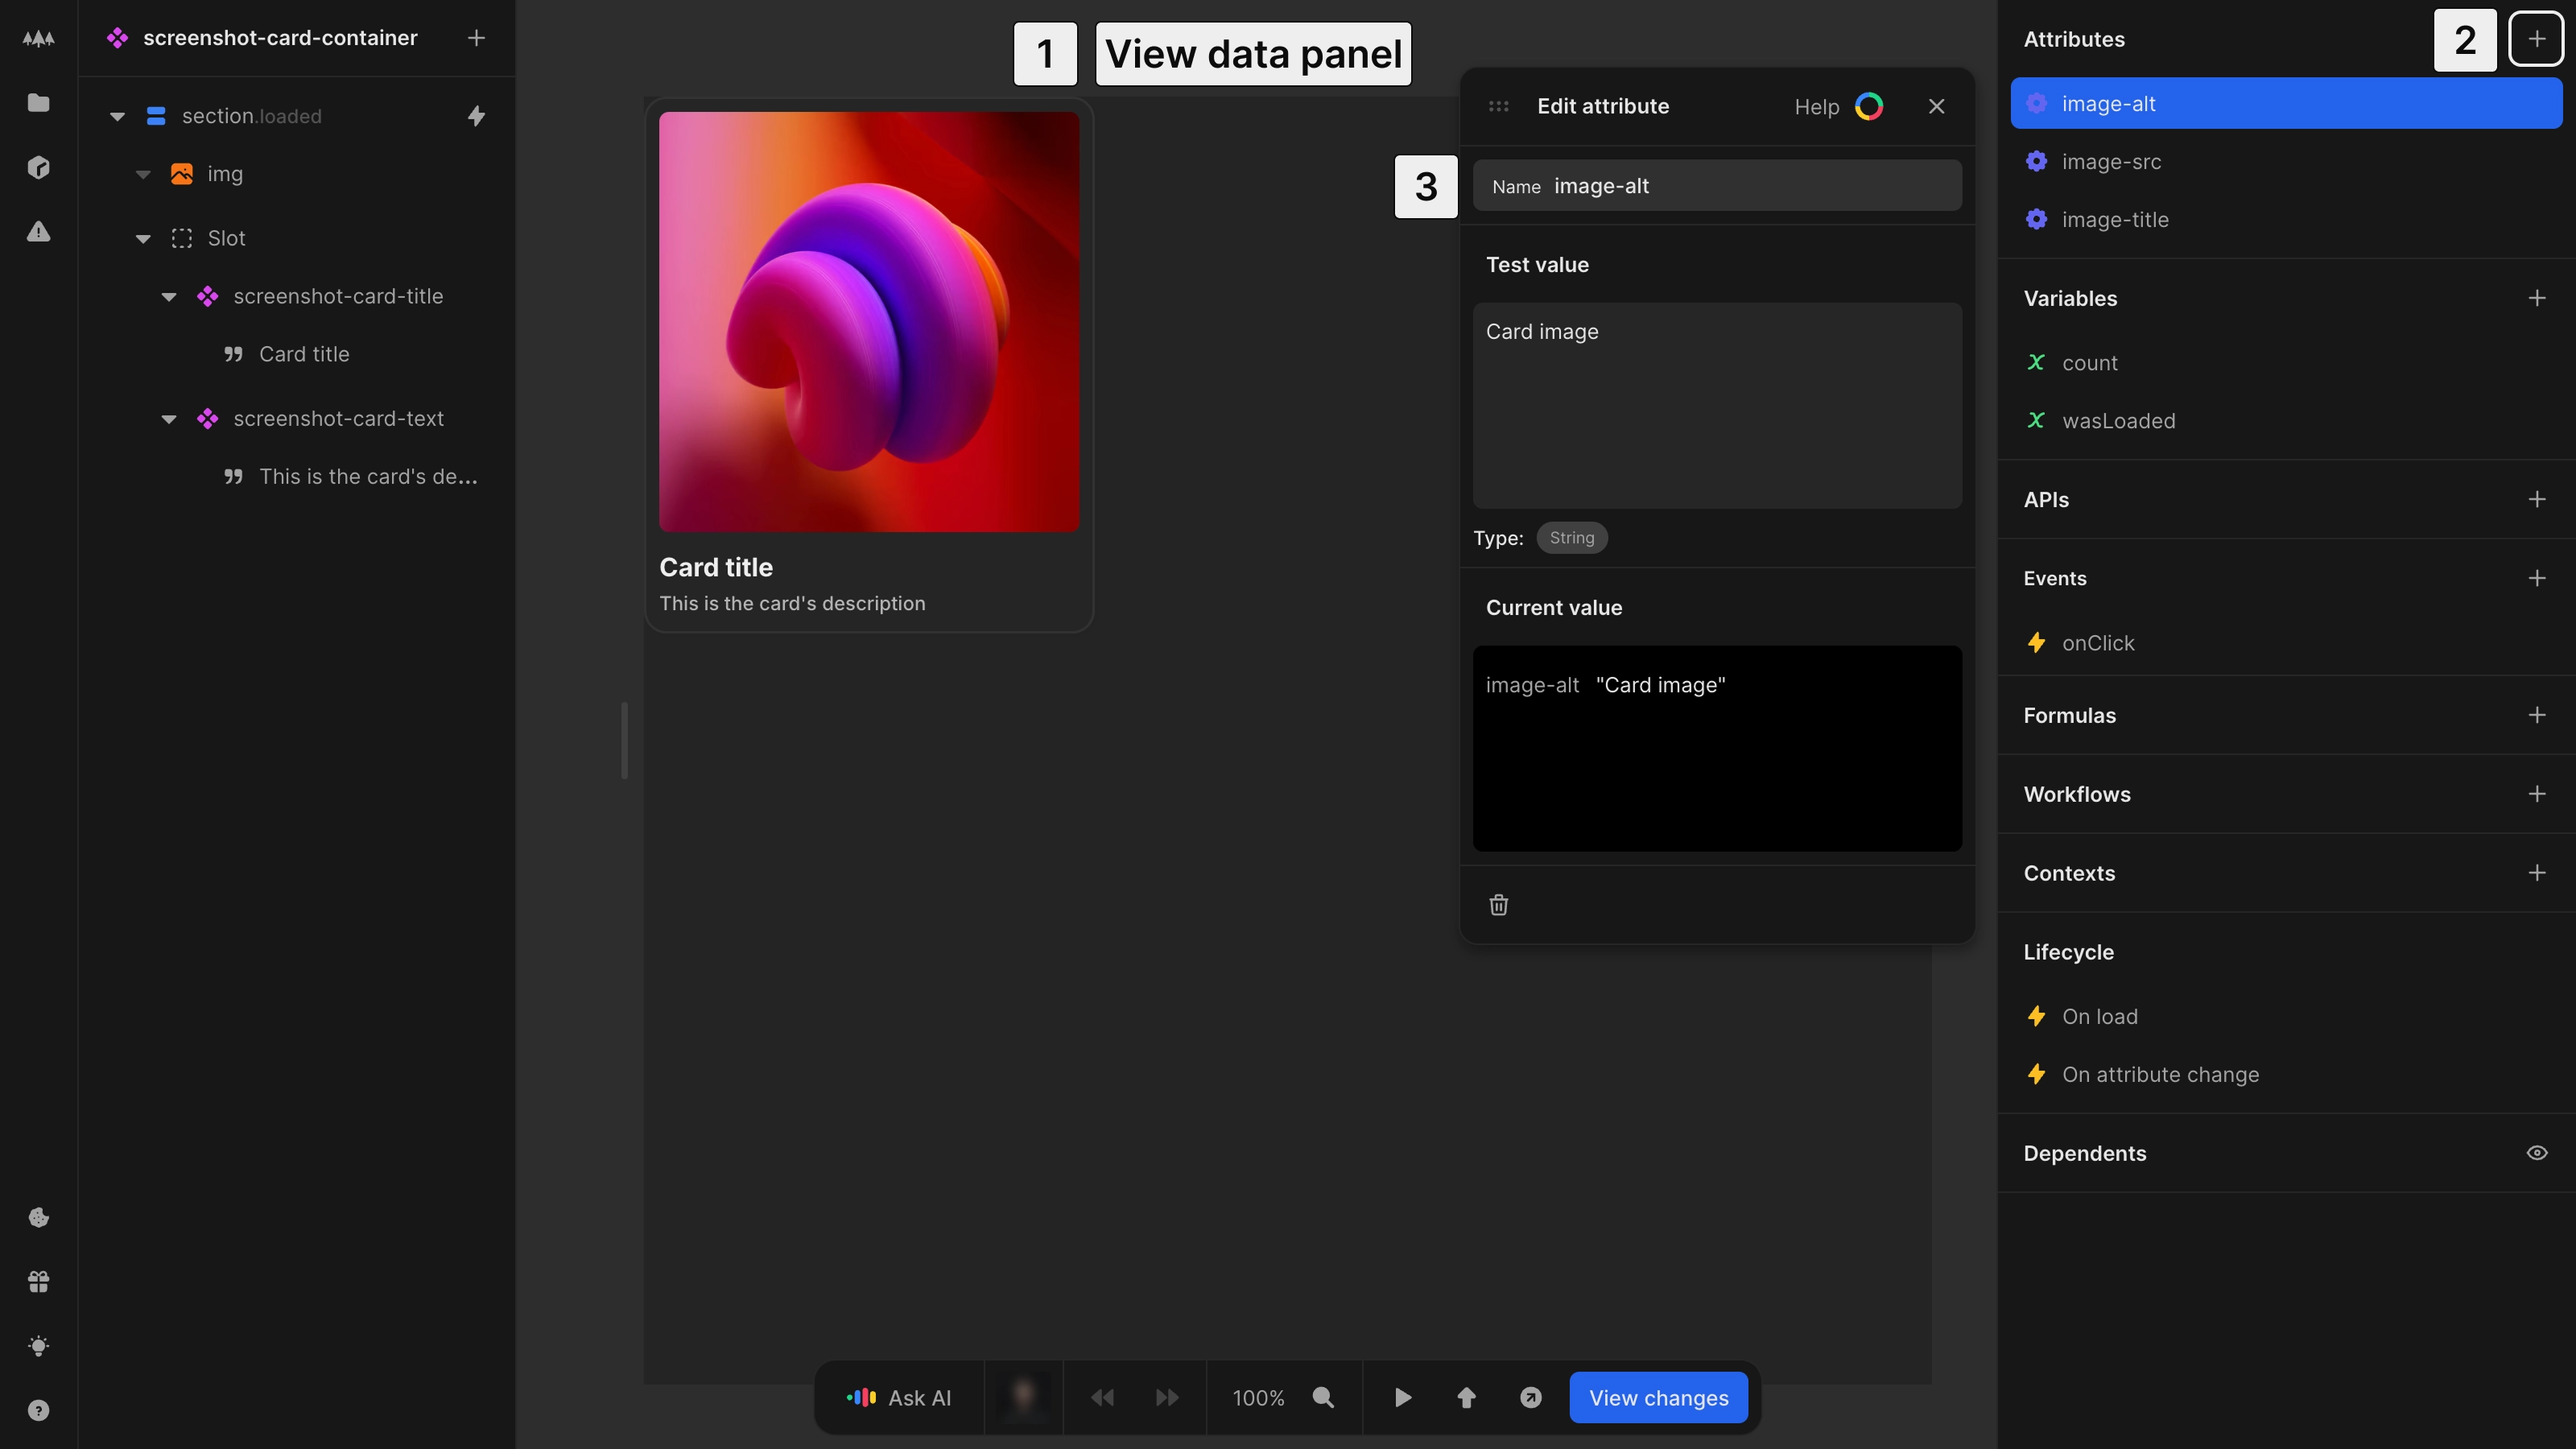
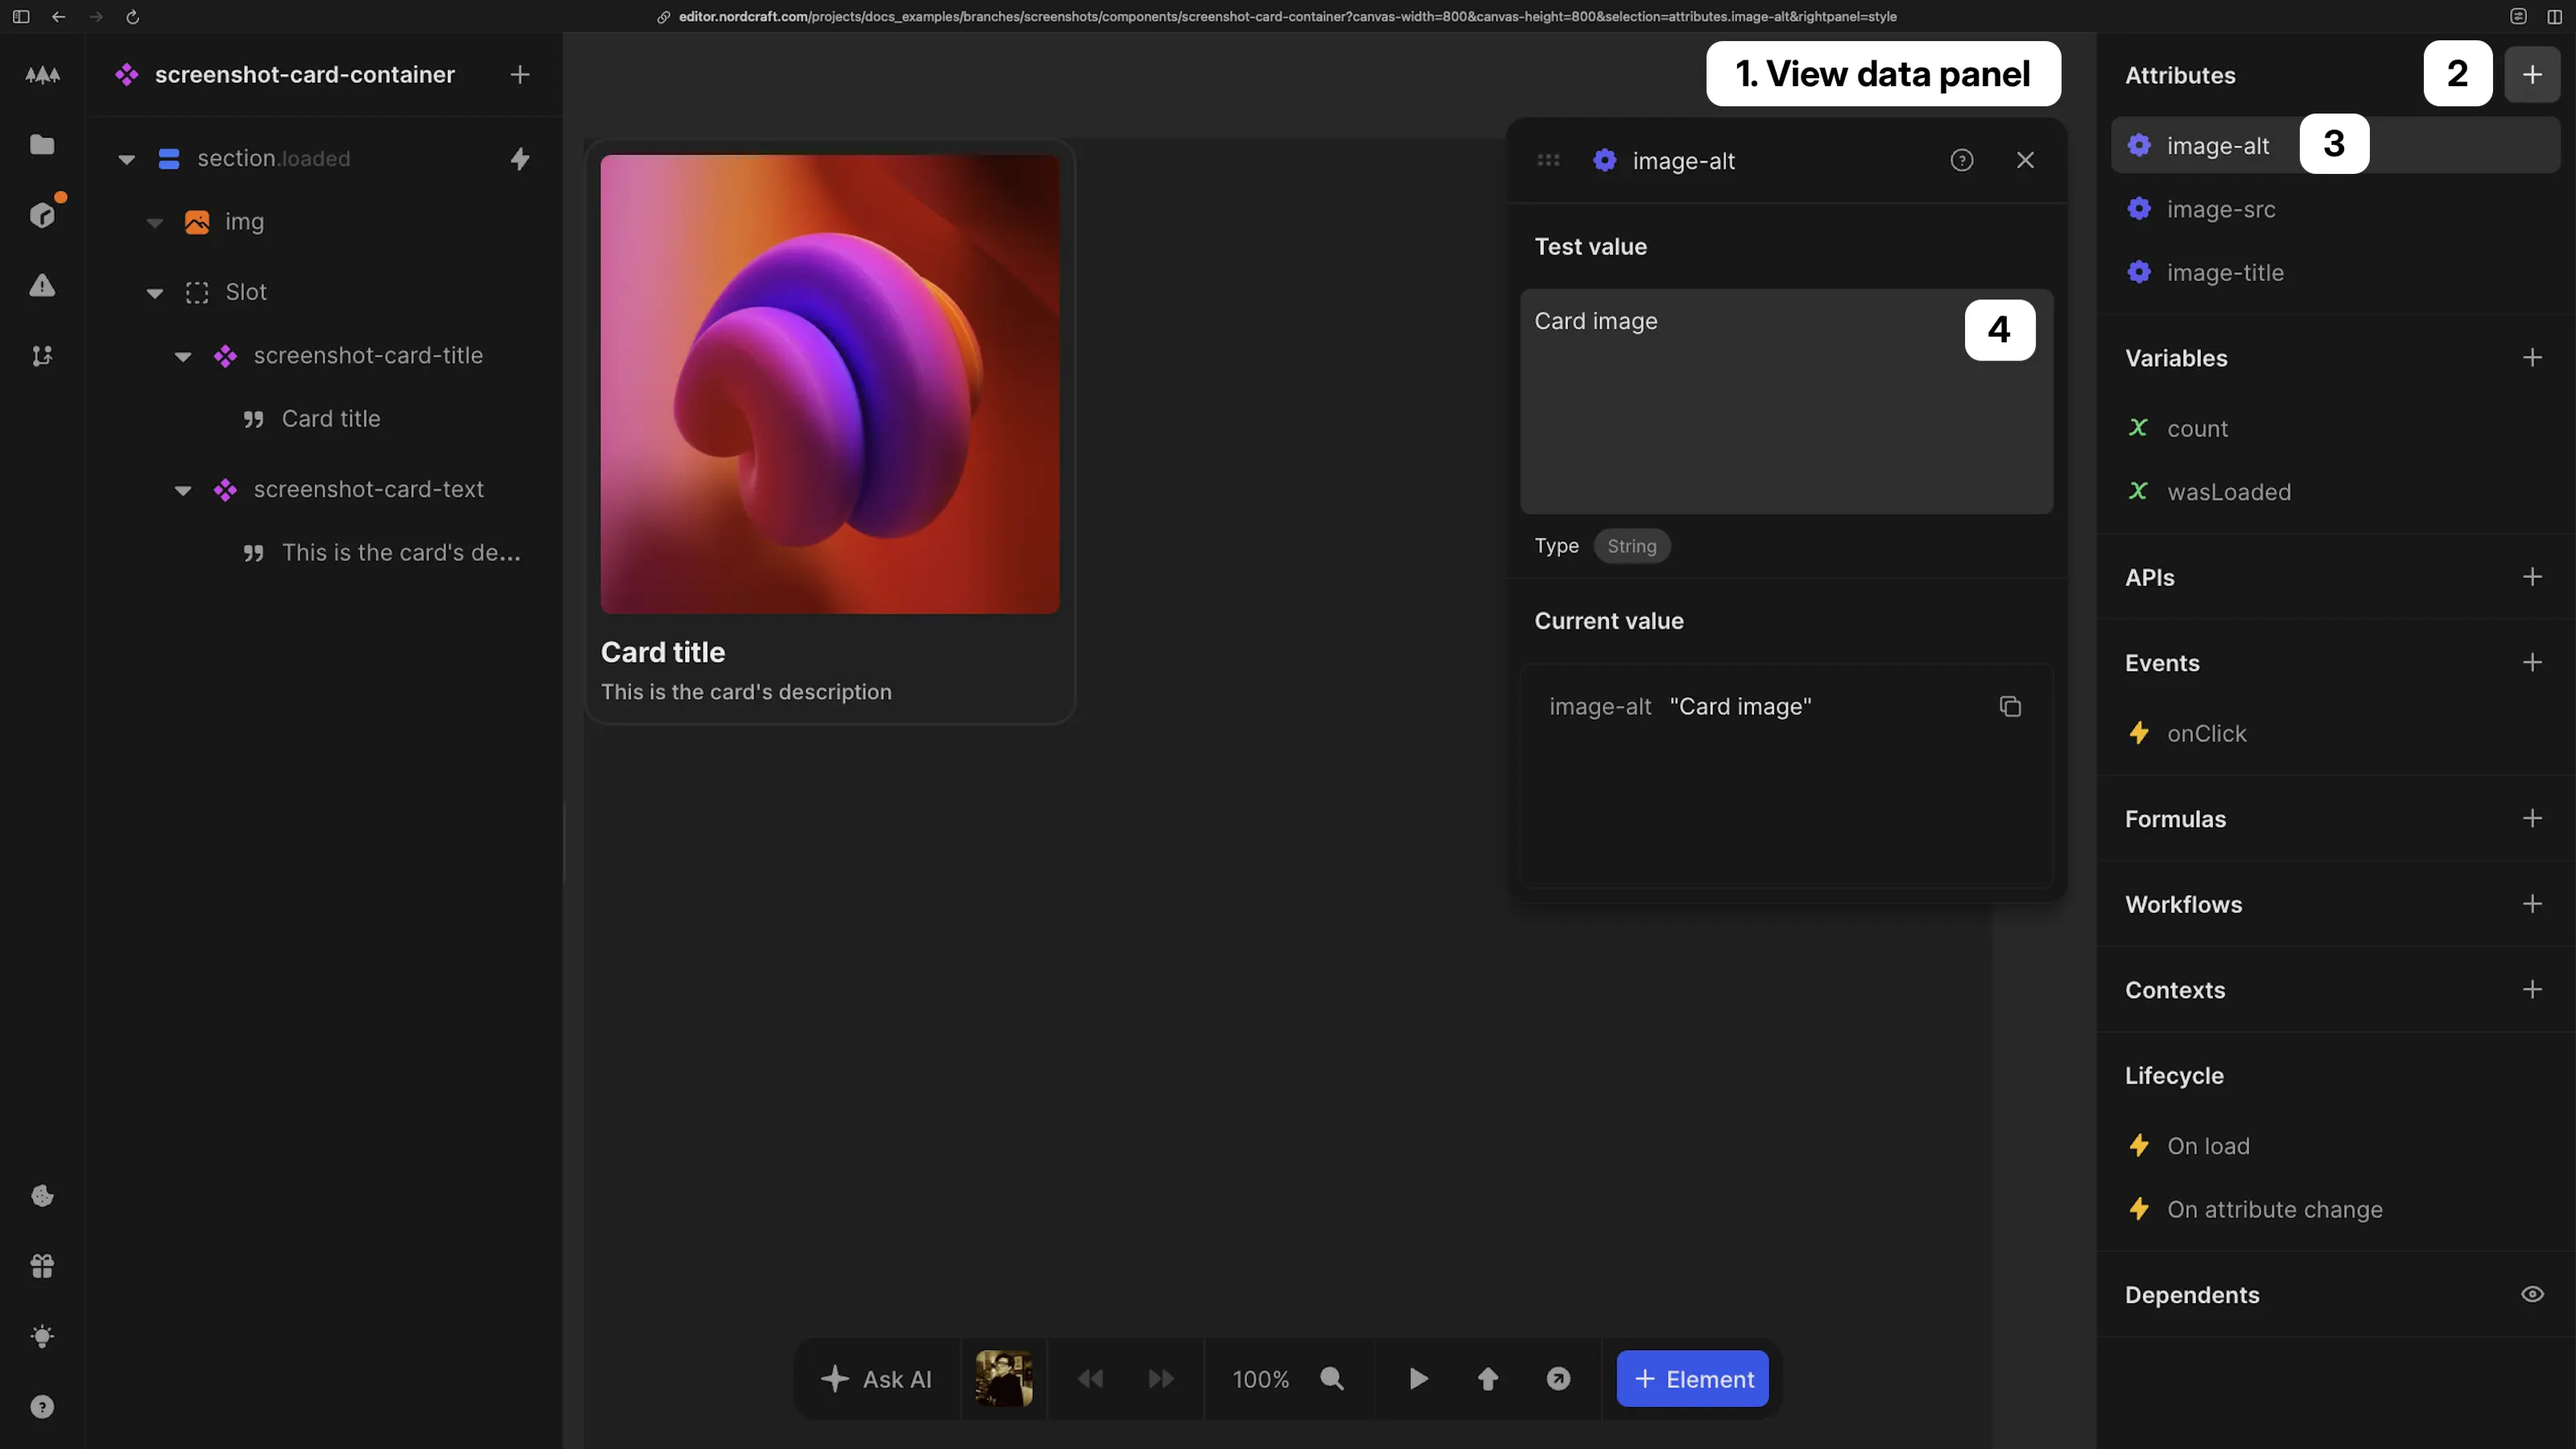
Update screenshots for components interface and lifecycle

diff --git a/docs/components/interface-and-lifecycle/index.md b/docs/components/interface-and-lifecycle/index.md
@@ -30,9 +30,8 @@ Attributes are the primary way to pass data into a component:
 
 1. Open the component and view the [data panel](/the-editor/data-panel) with no element selected
 2. In the **Attributes** section, click the [kbd]+[kbd] button
-3. Configure the attribute:
-   - **Name**: A unique name that must consist of lowercase letters, numbers, hyphens (`-`) and underscores (`_`) only
-   - **Test value**: The value used in the editor; this test value also determines the attribute type (e.g. `Number`, `String`, `Array`, etc.)
+3. **Name**: Give the attribute a unique name that can consist of lowercase letters, numbers, hyphens (`-`) and underscores (`_`) only
+4. **Test value**: Give the attribute a test value to be used in the editor while you work; this test value also determines the attribute type (e.g. `Number`, `String`, `Array`, etc.)
 
 Attributes allow you to create configurable components that can:
 
@@ -58,15 +57,14 @@ The test value is only used while developing your component in the editor. It ha
 
 ### Setting up events
 
-![An onClick event is defined in the events list in the right panel. The event dialog is open, showing an editable name and test value of a string.|16/9](set-up-an-event.webp 'Set up an event'){https://editor.nordcraft.com/projects/docs_examples/branches/main/components/screenshot-card-container?canvas-width=800&rightpanel=style&selection=events.0&canvas-height=800}
+![An onClick event is defined in the events list in the right panel. The event dialog is open, showing an test value of an object representing a JavaScript event.|16/9](set-up-an-event.webp 'Set up an event'){https://editor.nordcraft.com/projects/docs_examples/branches/main/components/screenshot-card-container?canvas-width=800&rightpanel=style&selection=events.0&canvas-height=800}
 
 Events allow components to communicate upward to parent elements:
 
 1. Open the component and view the [data panel](/the-editor/data-panel) with no element selected
 2. In the **Events** section, click the [kbd]+[kbd] button
-3. Configure the event:
-   - **Name**: A descriptive name for the event
-   - **Test value**: Example data that defines the event's output structure, allowing you to develop event handling in parent components without actual event triggers.
+3. **Name**: Give the event a descriptive name
+4. **Test value**: Add example data that defines the event's output structure, allowing you to develop event handling in parent components without actual event triggers.
 
 Events enable child components to send messages and data up to their parent components.
 
